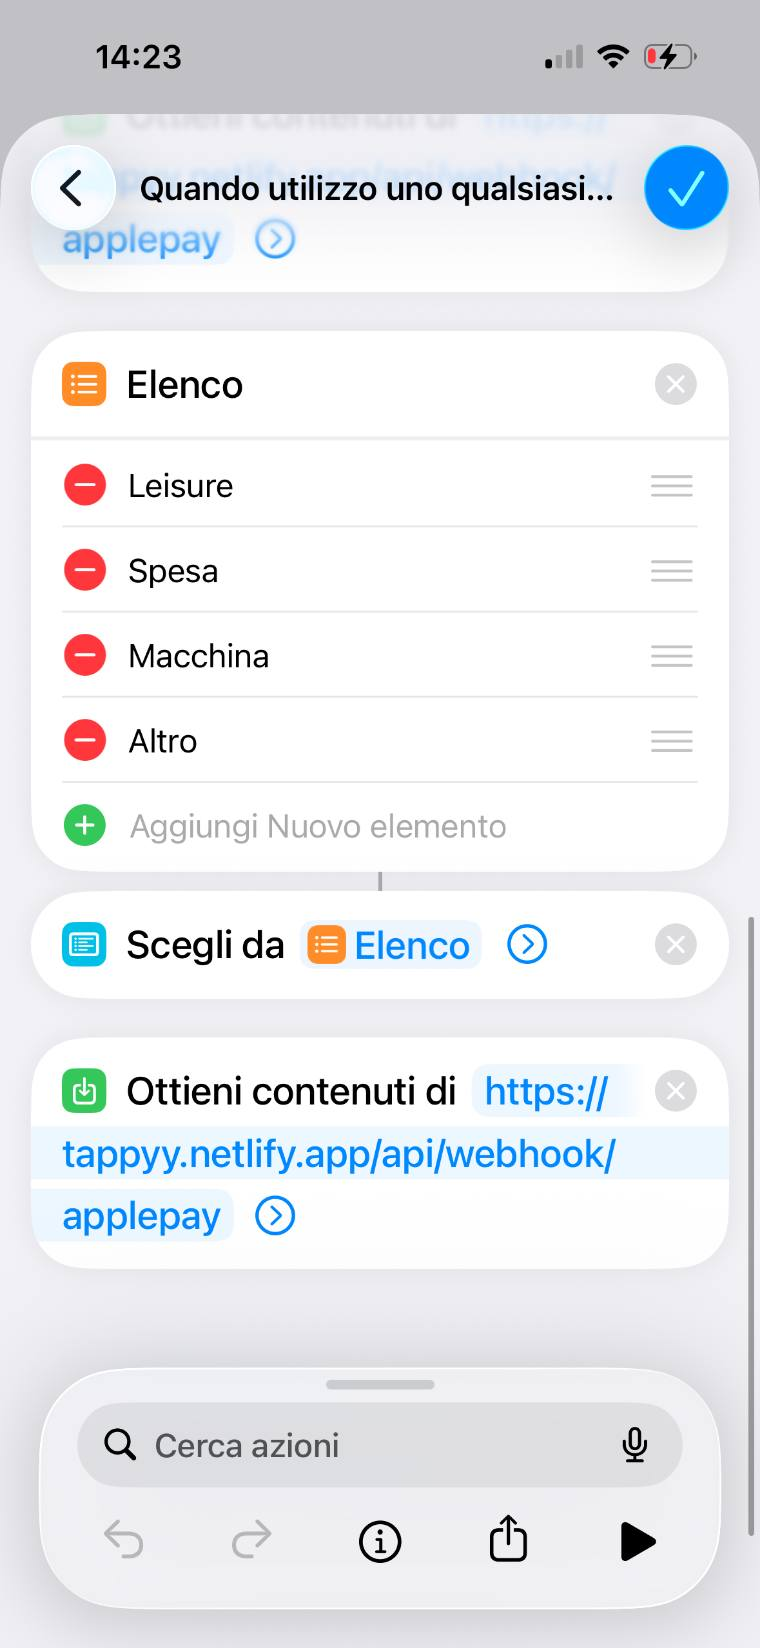
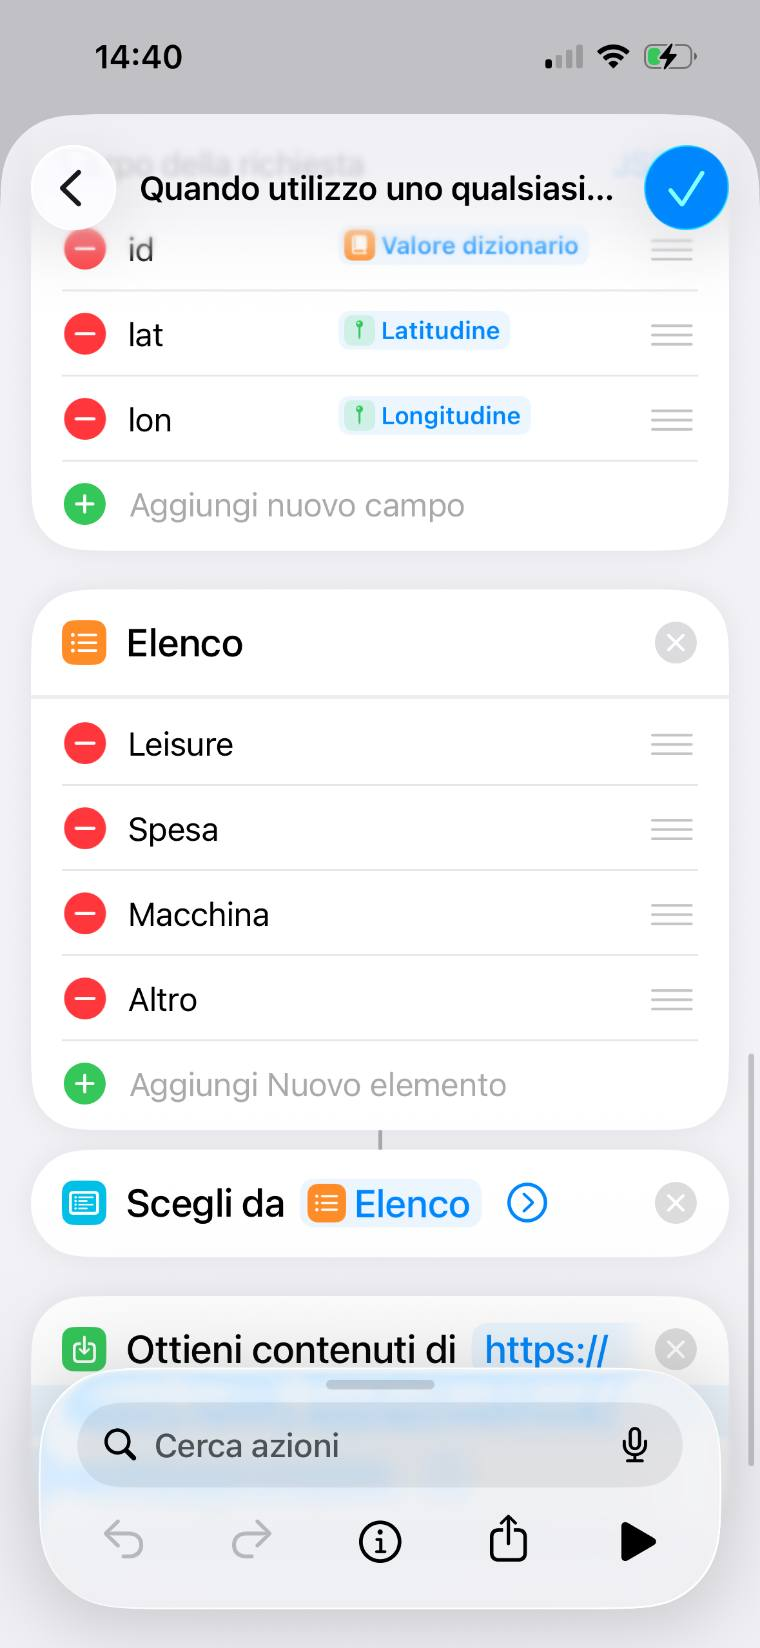
Guida rifatta sugli scatti dell'automazione definitiva
Sei immagini nuove, dall'automazione con gli indirizzi corretti: innesco,
prima chiamata aperta, posizione, seconda chiamata, elenco, terza
chiamata. Le due finali mostrano l'indirizzo con /completa, che è
l'errore più facile da fare.

Passo accetta ora una o due figure: per le chiamate serve sia l'azione
nella lista sia il pannello aperto. Il passo sulla nota resta senza
immagine, perché quelle azioni non sono più nell'automazione.

Nelle immagini con le intestazioni la x-api-key è mascherata.

Claude-Session: https://claude.ai/code/session_01H3poq5UZy4bmtpKeGV99Xx

diff --git a/client/src/views/GuidaAutomazione.tsx b/client/src/views/GuidaAutomazione.tsx
@@ -2,22 +2,23 @@
 // fatto. Vive dentro l'app e non in un file del repository perché il momento
 // in cui serve è questo: hai l'URL e la chiave sotto gli occhi, e il telefono
 // in mano.
-import { useState } from "react";
+import { useState, type ReactNode } from "react";
 import { useApp } from "../lib/AppContext";
 import { API_BASE } from "../lib/realApi";
 
+// Un passo della guida. Le immagini sono una o due: spesso servono sia lo
+// scatto dell'azione nella lista, sia quello del suo pannello aperto — in
+// una sola non ci stanno, e chi segue la guida deve riconoscere entrambe.
 function Passo({
   numero,
   titolo,
   children,
-  immagine,
-  didascalia,
+  figure,
 }: {
   numero: number;
   titolo: string;
-  children: React.ReactNode;
-  immagine?: string;
-  didascalia?: string;
+  children: ReactNode;
+  figure?: { src: string; didascalia: string }[];
 }) {
   return (
     <section className="flex flex-col gap-2">
@@ -28,21 +29,19 @@ function Passo({
       <div className="text-callout text-muted dark:text-muted-dark flex flex-col gap-2">
         {children}
       </div>
-      {immagine && (
-        <figure className="flex flex-col gap-1.5 mt-1">
+      {figure?.map((f) => (
+        <figure key={f.src} className="flex flex-col gap-1.5 mt-1">
           <img
-            src={immagine}
-            alt={didascalia ?? ""}
+            src={f.src}
+            alt={f.didascalia}
             loading="lazy"
             className="w-full rounded-2xl border border-black/5 dark:border-white/10"
           />
-          {didascalia && (
-            <figcaption className="text-caption text-muted dark:text-muted-dark text-center">
-              {didascalia}
-            </figcaption>
-          )}
+          <figcaption className="text-caption text-muted dark:text-muted-dark text-center">
+            {f.didascalia}
+          </figcaption>
         </figure>
-      )}
+      ))}
     </section>
   );
 }
@@ -143,8 +142,12 @@ export default function GuidaAutomazione({ onChiudi }: { onChiudi: () => void })
         <Passo
           numero={2}
           titolo="Crea l'automazione"
-          immagine="./guida/1-innesco.jpg"
-          didascalia="L'innesco giusto, e sotto la catena: prima l'invio, poi la posizione"
+          figure={[
+            {
+              src: "./guida/1-innesco.jpg",
+              didascalia: "La prima riga dev'essere «Ricevi transazione come input»",
+            },
+          ]}
         >
           <ol className="list-decimal pl-4 flex flex-col gap-1.5">
             <li>
@@ -170,8 +173,12 @@ export default function GuidaAutomazione({ onChiudi }: { onChiudi: () => void })
         <Passo
           numero={3}
           titolo="Aggiungi l'invio a tappy"
-          immagine="./guida/3-invio.jpg"
-          didascalia="L'azione aperta con «Mostra altro». Attenzione: nella foto ci sono anche lat e lon, che ora non vanno più qui"
+          figure={[
+            {
+              src: "./guida/2-invio.jpg",
+              didascalia: "L'azione aperta con «Mostra altro»: metodo, intestazioni e i tre campi",
+            },
+          ]}
         >
           <p>
             Aggiungi l&apos;azione <b>Ottieni contenuti dall&apos;URL</b>, poi tocca{" "}
@@ -215,8 +222,16 @@ export default function GuidaAutomazione({ onChiudi }: { onChiudi: () => void })
         <Passo
           numero={4}
           titolo="Poi la posizione"
-          immagine="./guida/2-posizione.jpg"
-          didascalia="Dopo la longitudine: l'id preso dalla risposta, e la seconda chiamata"
+          figure={[
+            {
+              src: "./guida/3-posizione.jpg",
+              didascalia: "Precisione «Ottimale», poi latitudine, longitudine e l'id dalla risposta",
+            },
+            {
+              src: "./guida/4-seconda-chiamata.jpg",
+              didascalia: "La seconda chiamata: l'indirizzo finisce in /completa",
+            },
+          ]}
         >
           <p className="text-ink dark:text-ink-dark">
             Va <b>dopo</b> l&apos;invio, non prima. Se iOS nega la posizione — e a telefono
@@ -284,8 +299,16 @@ export default function GuidaAutomazione({ onChiudi }: { onChiudi: () => void })
         <Passo
           numero={5}
           titolo="La categoria, per ultima"
-          immagine="./guida/5-categoria.jpg"
-          didascalia="In coda a tutto: elenco, scelta, terza chiamata"
+          figure={[
+            {
+              src: "./guida/5-categoria.jpg",
+              didascalia: "In coda a tutto: l'elenco e la scelta",
+            },
+            {
+              src: "./guida/6-terza-chiamata.jpg",
+              didascalia: "La terza chiamata: stesso indirizzo della seconda, due soli campi",
+            },
+          ]}
         >
           <p className="text-ink dark:text-ink-dark">
             Chiedere la categoria è l&apos;unica azione che <b>aspetta una risposta</b>. A telefono
@@ -320,12 +343,7 @@ export default function GuidaAutomazione({ onChiudi }: { onChiudi: () => void })
           </p>
         </Passo>
 
-        <Passo
-          numero={6}
-          titolo="La nota non serve"
-          immagine="./guida/4-nota.jpg"
-          didascalia="Le due azioni della nota: facoltative, si possono togliere"
-        >
+        <Passo numero={6} titolo="La nota non serve">
           <p className="text-ink dark:text-ink-dark">
             Le azioni <b>Testo</b> e <b>Aggiungi a nota</b> non sono necessarie: tappy registra la
             spesa lo stesso. Servivano solo a tenere un doppione durante le prove.
@@ -336,8 +354,8 @@ export default function GuidaAutomazione({ onChiudi }: { onChiudi: () => void })
             l&apos;automazione si ferma lì.
           </p>
           <p>
-            Solo in quel caso serve anche <b>Formatta data</b> (visibile al passo 4): è la data
-            che finisce nel testo della nota, non nel movimento.
+            Solo in quel caso serve anche <b>Formatta data</b>: è la data che finisce nel testo
+            della nota, non nel movimento. Se la nota non c&apos;è, togli anche quella.
           </p>
         </Passo>
 

diff --git a/COORDINATION.md b/COORDINATION.md
@@ -480,15 +480,22 @@ gente:
 - **Il primo accesso costa 6 scritture** (utente, 4 categorie, carta), in
   sequenza. Va bene per un'iscrizione ogni tanto, non per un'ondata.
 
-## 12. Screenshot della guida — stato al 2026-09-03
+## 12. Screenshot della guida
 
-Rifatti con l'automazione a tre chiamate: `1-innesco.jpg` (la testa: input,
-invio, posizione), `2-posizione.jpg` (id dal dizionario e seconda chiamata),
-`5-categoria.jpg` (elenco, scelta, terza chiamata). `4-nota.jpg` resta valido
-perché mostra azioni che la guida dichiara facoltative.
+Rifatti il 2026-09-03 sull'automazione a tre chiamate, che è quella
+definitiva: `1-innesco`, `2-invio`, `3-posizione`, `4-seconda-chiamata`,
+`5-categoria`, `6-terza-chiamata`. Le due chiamate finali mostrano
+l'indirizzo con `/completa`, che è l'errore più facile da fare.
 
-**Resta da rifare `3-invio.jpg`**: mostra il corpo della prima chiamata con
-`lat` e `lon` dentro, che ora non ci vanno più. La didascalia lo avverte, ma
-è una toppa: va risostituito con uno scatto del corpo attuale (`amount`,
-`name`, `card`). Nel rifarlo, mascherare la `x-api-key` — iOS ne mostra i
-primi caratteri e queste immagini stanno in un repo pubblico.
+`Passo` accetta ora una o due figure: per l'invio e per le due chiamate
+servono sia lo scatto dell'azione nella lista sia quello del pannello
+aperto, e in una sola immagine non ci stanno.
+
+Nelle tre immagini che mostrano le intestazioni la `x-api-key` è mascherata
+con un rettangolo bianco: iOS ne stampa i primi caratteri e queste immagini
+stanno in un repo pubblico. Se se ne rifà una, rifare anche la maschera —
+lo script sta nella cronologia di questa sessione, ma è due minuti di
+Chromium e canvas.
+
+Non c'è più uno scatto per il passo sulla nota: quelle azioni sono state
+tolte dall'automazione, e la guida le descrive soltanto.
